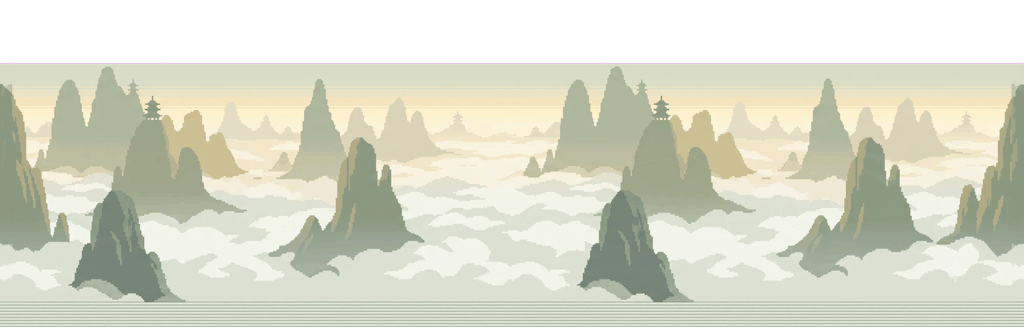
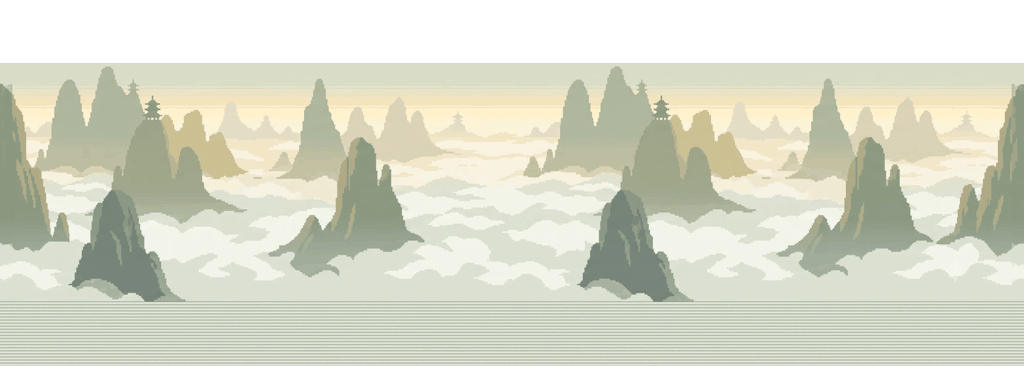
v2.69.5 원경 덧대기 N을 최종 픽셀 기준으로 — 2000px 시트(설산·천산)에서 절반만 들어가던 것
Claude-Session: https://claude.ai/code/session_01JNaHhiKtytcgy14ocCuYm4

Changed region(s): [[0.0, 0.1529, 1.0, 1.0]]

diff --git a/bg_extract.py b/bg_extract.py
@@ -67,6 +67,9 @@ if trim < H:
 for arg in sys.argv[2:]:
     if arg.startswith('--pad'):
         n = int(arg.split('=')[1]); Hh = rgba.shape[0]
+        # 덧대기는 축소 전 원본 해상도에서 하니, 2000px 시트는 최종(1024)에서 반으로 준다 —
+        # N은 최종 픽셀 기준으로 받아 원본 배율로 환산한다 (v2.69.5: 설산 120이 61이 됐었다)
+        n = int(round(n * max(1.0, W / 1024.0)))
         band = rgba[Hh - 6:Hh].astype(int)
         # 집 벽이 맨 아래까지 닿아 있어 그 줄을 그대로 이으면 벽이 물에 비친 듯 줄무늬가 된다 —
         # 줄마다 중앙값에 가까운 픽셀(땅)만 골라 가로로 섞어 벽 구조 없는 땅 띠를 만든다

diff --git a/VERSION.md b/VERSION.md
@@ -1,3 +1,9 @@
+# v2.69.5 — 설산 "여전히 똑같아": 덧대기가 절반만 들어가고 있었다 (2026-09-15)
+
+- bg_extract의 `--pad`는 축소 전 원본에서 덧대는데, 설산·천산 시트는 2000px라 최종(1024)
+  에선 절반이 됐다(120 → 61, 48 → 24). N을 최종 픽셀 기준으로 받아 원본 배율로 환산.
+  설산 눈밭 띠 120px(에셋 422 높이), 천산 64px. 배포본을 다시 읽어 에셋 높이로 확인했다.
+
 # v2.69.4 — 설산 원경 나무 줄 (2026-09-15)
 
 - 설산 시트는 소나무 줄이 평평한 띠에 가려 밑동이 직선으로 끝난다(그림 자체). 눈밭 띠를
